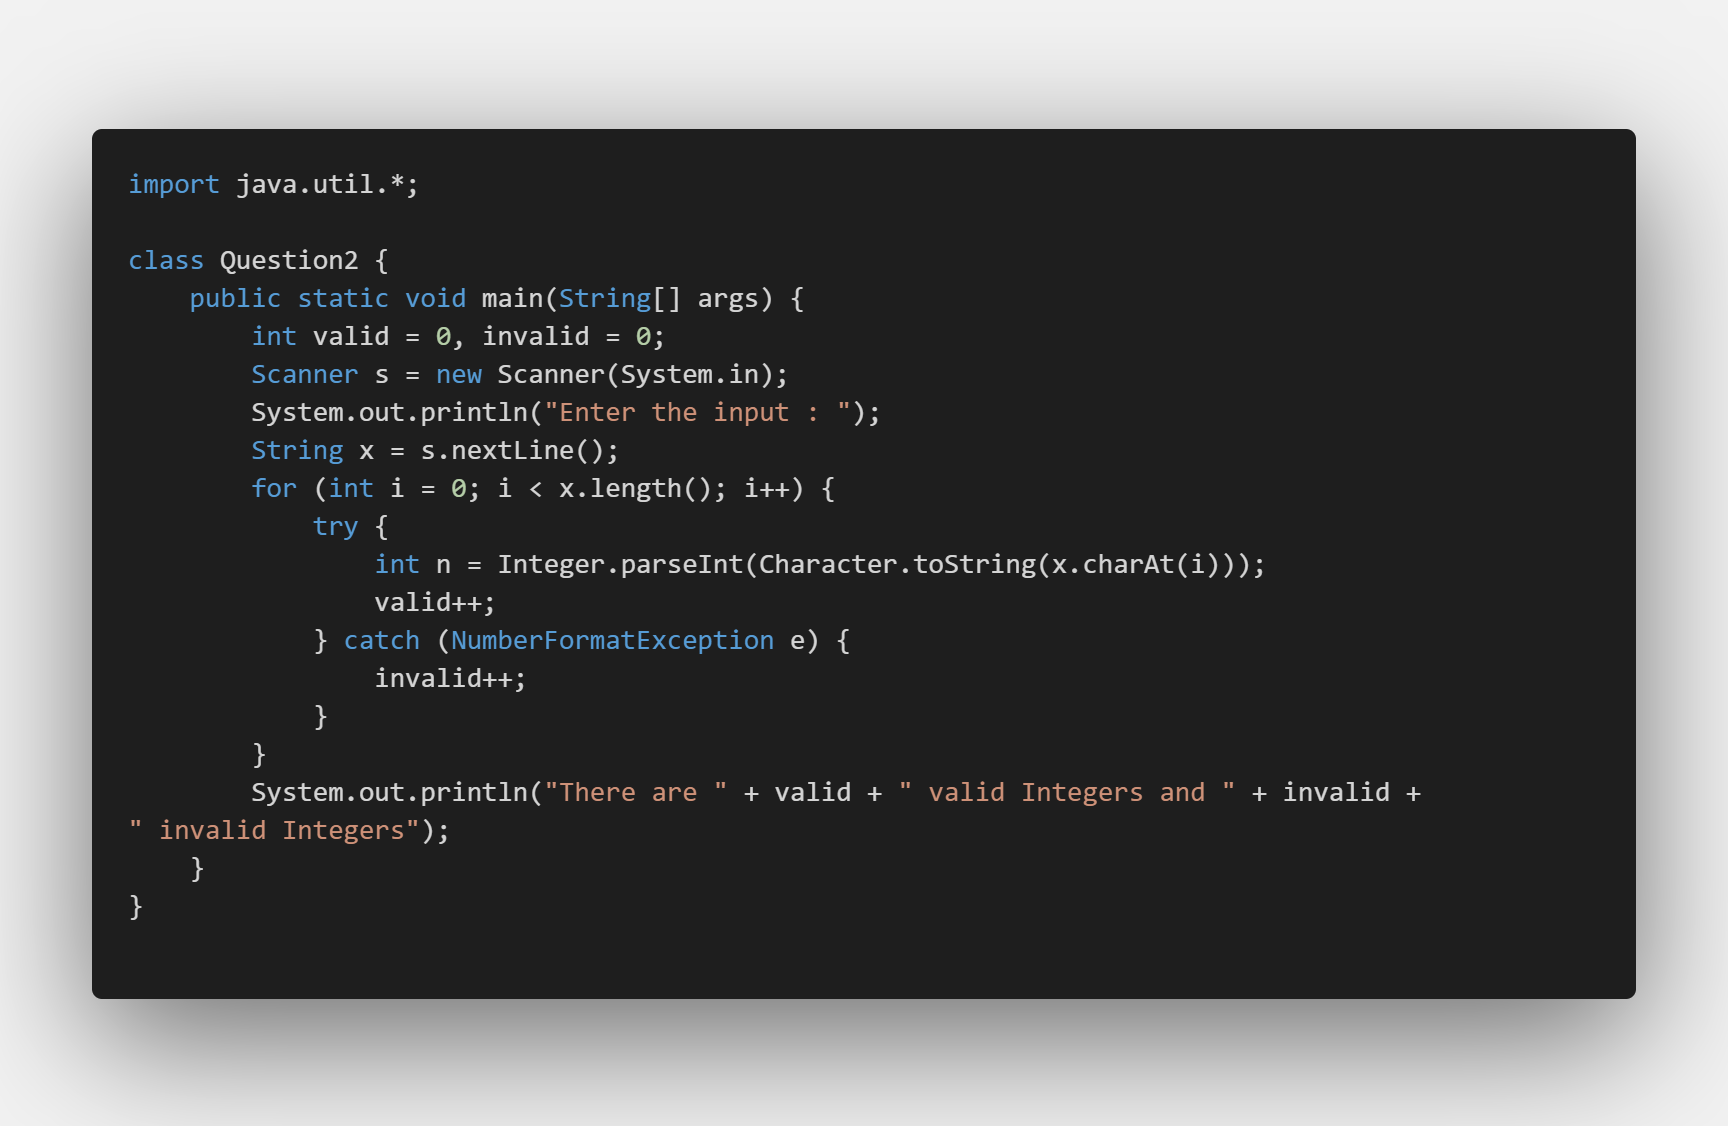
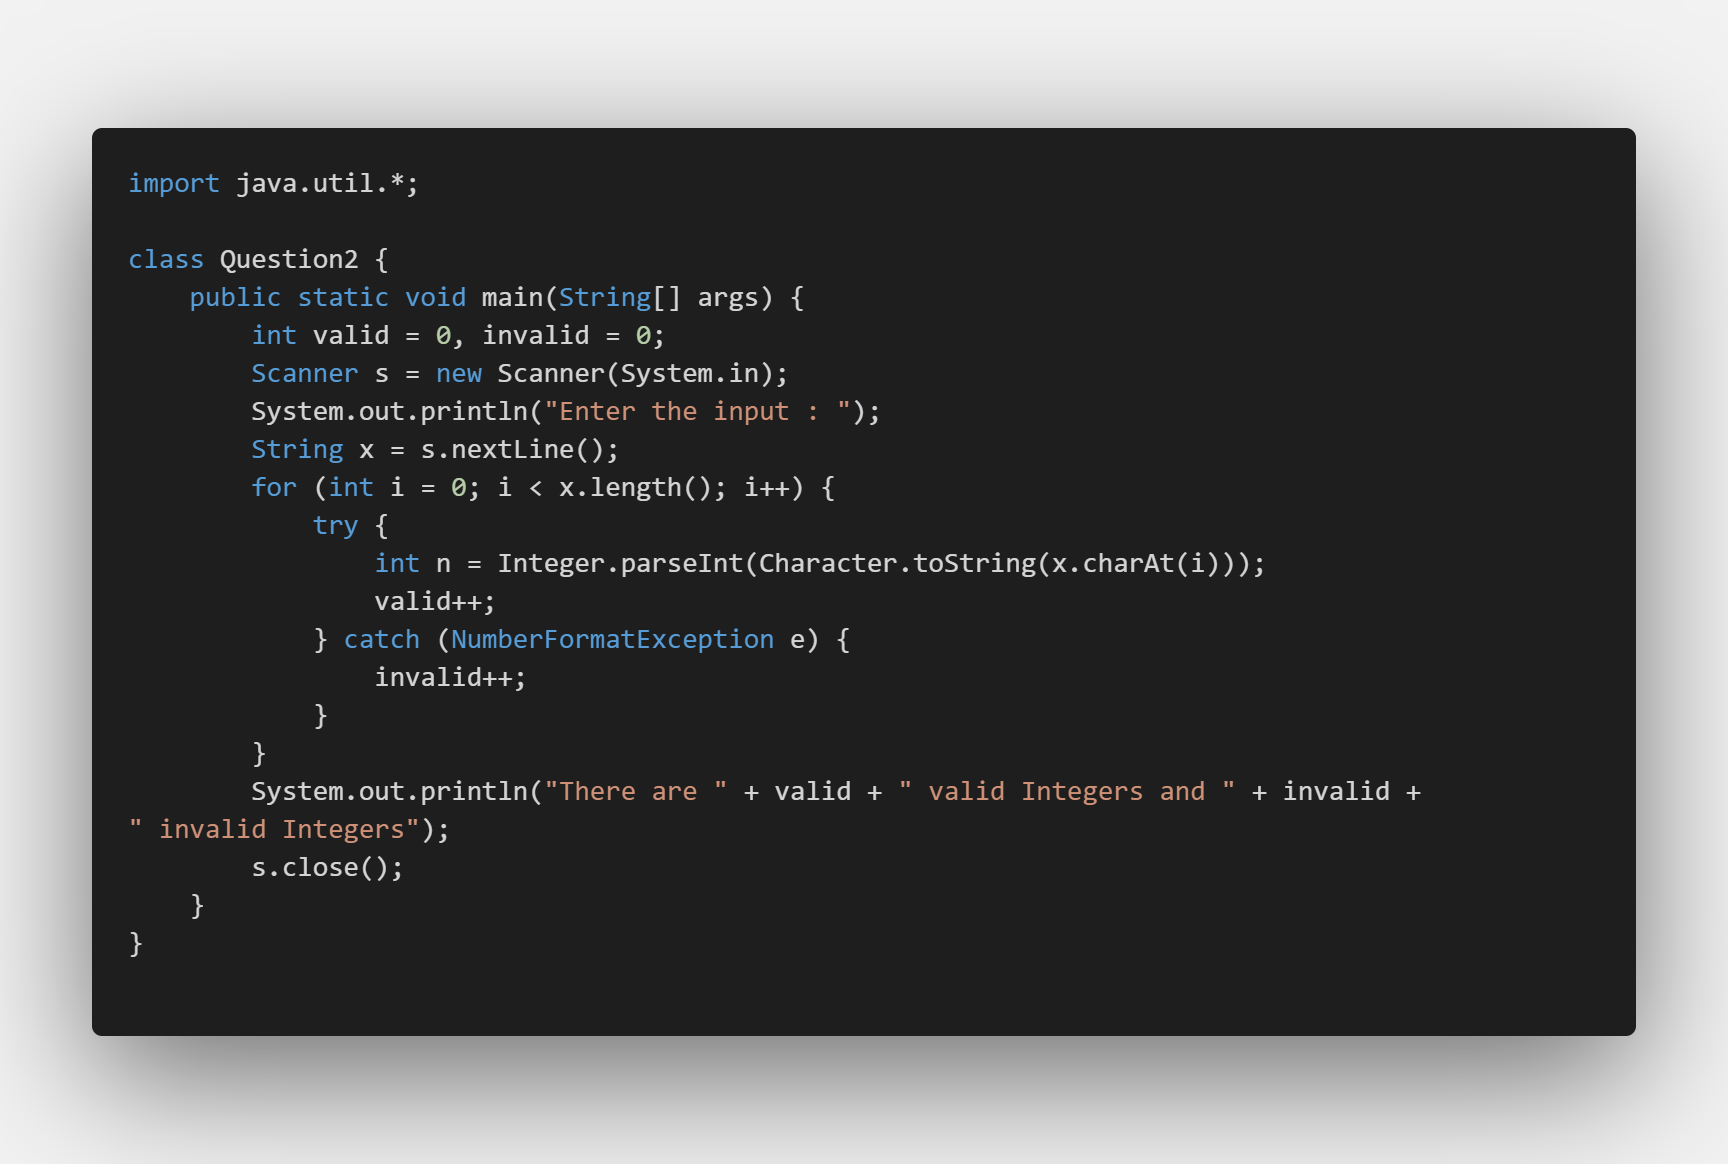
labs 4-5 added

diff --git a/Exp4_3.java b/Exp4_3.java
@@ -1,0 +1,120 @@
+class Account {
+    private int acc_no;
+    private double acc_balance;
+
+    public Account(int num) {
+        acc_balance = 0.0;
+        acc_no = num;
+    }
+
+    public void withdraw(double amt) {
+        if (amt > 0) {
+            if (amt <= acc_balance) {
+                acc_balance -= amt;
+                System.out.println(amt + " amount has been withdrawn from your account");
+            } else {
+                System.out.println("You dont have Sufficient Balance to withdraw this amount");
+            }
+        } else {
+            System.err.println("Cannot withdraw negative amount.");
+        }
+    }
+
+    public void deposit(double amt) {
+        if (amt > 0) {
+            acc_balance = acc_balance + amt;
+            System.out.println(amt + " amount has been deposited in your account");
+        } else {
+            System.err.println("Cannot deposit negative amount.");
+        }
+    }
+
+    public double getBalance() {
+        return acc_balance;
+    }
+
+    public int getAccountNumber() {
+        return acc_no;
+    }
+
+    public void print() {
+        System.out.println("Account Number= " + acc_no + ", " + "balance = " + acc_balance);
+    }
+}
+
+class SavingAccount extends Account {
+    private double interest;
+
+    public SavingAccount(int acc_no, double interest) {
+        super(acc_no);
+        this.interest = interest;
+    }
+
+    public double getInterset() {
+        return getBalance() + getBalance() * interest;
+    }
+
+    public void AddInterest(double interest) {
+        super.deposit(super.getBalance() * interest);
+    }
+
+    public void print() {
+        System.out.println("Account Number= " + super.getAccountNumber() + ", " + "balance = " + super.getBalance()
+                + ", " + " Interest = " + interest);
+    }
+}
+
+class CurrentAccount extends Account {
+    private double limit;
+
+    public CurrentAccount(int acc_no, double limit) {
+        super(acc_no);
+        this.limit = limit;
+    }
+
+    public double getLimit() {
+        return this.limit;
+    }
+
+    public void setLimit(double limit) {
+        this.limit = limit;
+    }
+
+    public void withdraw(double limit) {
+        if (limit <= this.limit)
+            super.withdraw(limit);
+        else {
+            System.out.println("Sorry, Limit Exceeded");
+        }
+    }
+
+    public void print() {
+        System.out.println("Account Number= " + super.getAccountNumber() + ", " + "balance = " + super.getBalance()
+                + ", " + " Limit = " + limit);
+    }
+}
+
+class Main {
+    public static void main(String[] args) {
+        Account[] accounts = new Account[2];
+        accounts[0] = new SavingAccount(24679, 2);
+        accounts[1] = new CurrentAccount(23258, 1000);
+        accounts[0].deposit(5000);
+        accounts[1].deposit(5000);
+        for (int i = 0; i < accounts.length; i++) {
+            if (accounts[i] instanceof SavingAccount) {
+                SavingAccount account = (SavingAccount) accounts[i];
+                account.print();
+            } else {
+                CurrentAccount account = (CurrentAccount) accounts[i];
+                account.print();
+            }
+        }
+        // Account acc1 = new SavingAccount(24679, 2);
+        // Account acc2 = new CurrentAccount(23258, 1000);
+        // acc1.deposit(5000);
+        // acc2.deposit(5000);
+        // acc1.print();
+        // acc2.print();
+    }
+}

diff --git a/Exp4_2.java b/Exp4_2.java
@@ -1,0 +1,51 @@
+import java.util.*;
+
+interface Area {
+    public void area();
+}
+
+class Circle implements Area {
+    int r;
+    Scanner s = new Scanner(System.in);
+
+    public void area() {
+        System.out.println("Enter the radius of Circle : ");
+        r = s.nextInt();
+        System.out.println("Area is " + (3.14f * r * r));
+    }
+}
+
+class Triangle implements Area {
+    int b, h;
+    Scanner s = new Scanner(System.in);
+
+    public void area() {
+        System.out.println("Enter the Breadth : ");
+        b = s.nextInt();
+        System.out.println("Enter the Height : ");
+        h = s.nextInt();
+        System.out.println("Area is " + (0.5f * b * h));
+    }
+}
+
+class Square implements Area {
+    int a;
+    Scanner s = new Scanner(System.in);
+
+    public void area() {
+        System.out.println("Enter the Length of Side of Square : ");
+        a = s.nextInt();
+        System.out.println("Area is " + (a * a));
+    }
+}
+
+class Calculate {
+    public static void main(String[] args) {
+        Circle c = new Circle();
+        c.area();
+        Triangle t = new Triangle();
+        t.area();
+        Square s = new Square();
+        s.area();
+    }
+}

diff --git a/Exp4_1.java b/Exp4_1.java
@@ -1,0 +1,24 @@
+class Student {
+    int roll_no = 18;
+}
+
+class Test extends Student {
+    int sem1 = 96, sem2 = 84;
+}
+
+interface Score {
+    public void score();
+}
+
+class Result extends Test implements Score {
+    int s = 40;
+
+    public void score() {
+        System.out.println("Total Marks are : " + (sem1 + sem2 + s));
+    }
+
+    public static void main(String[] args) {
+        Result r = new Result();
+        r.score();
+    }
+}

diff --git a/Exp5_4.java b/Exp5_4.java
@@ -20,7 +20,7 @@ class Multiples extends Thread {
     }
 }
 
-class Question4 {
+class Main {
     public static void main(String[] args) {
         Multiples t1 = new Multiples(3);
         Multiples t2 = new Multiples(5);

diff --git a/Exp5_2.java b/Exp5_2.java
@@ -15,5 +15,6 @@ class Question2 {
             }
         }
         System.out.println("There are " + valid + " valid Integers and " + invalid + " invalid Integers");
+        s.close();
     }
 }
